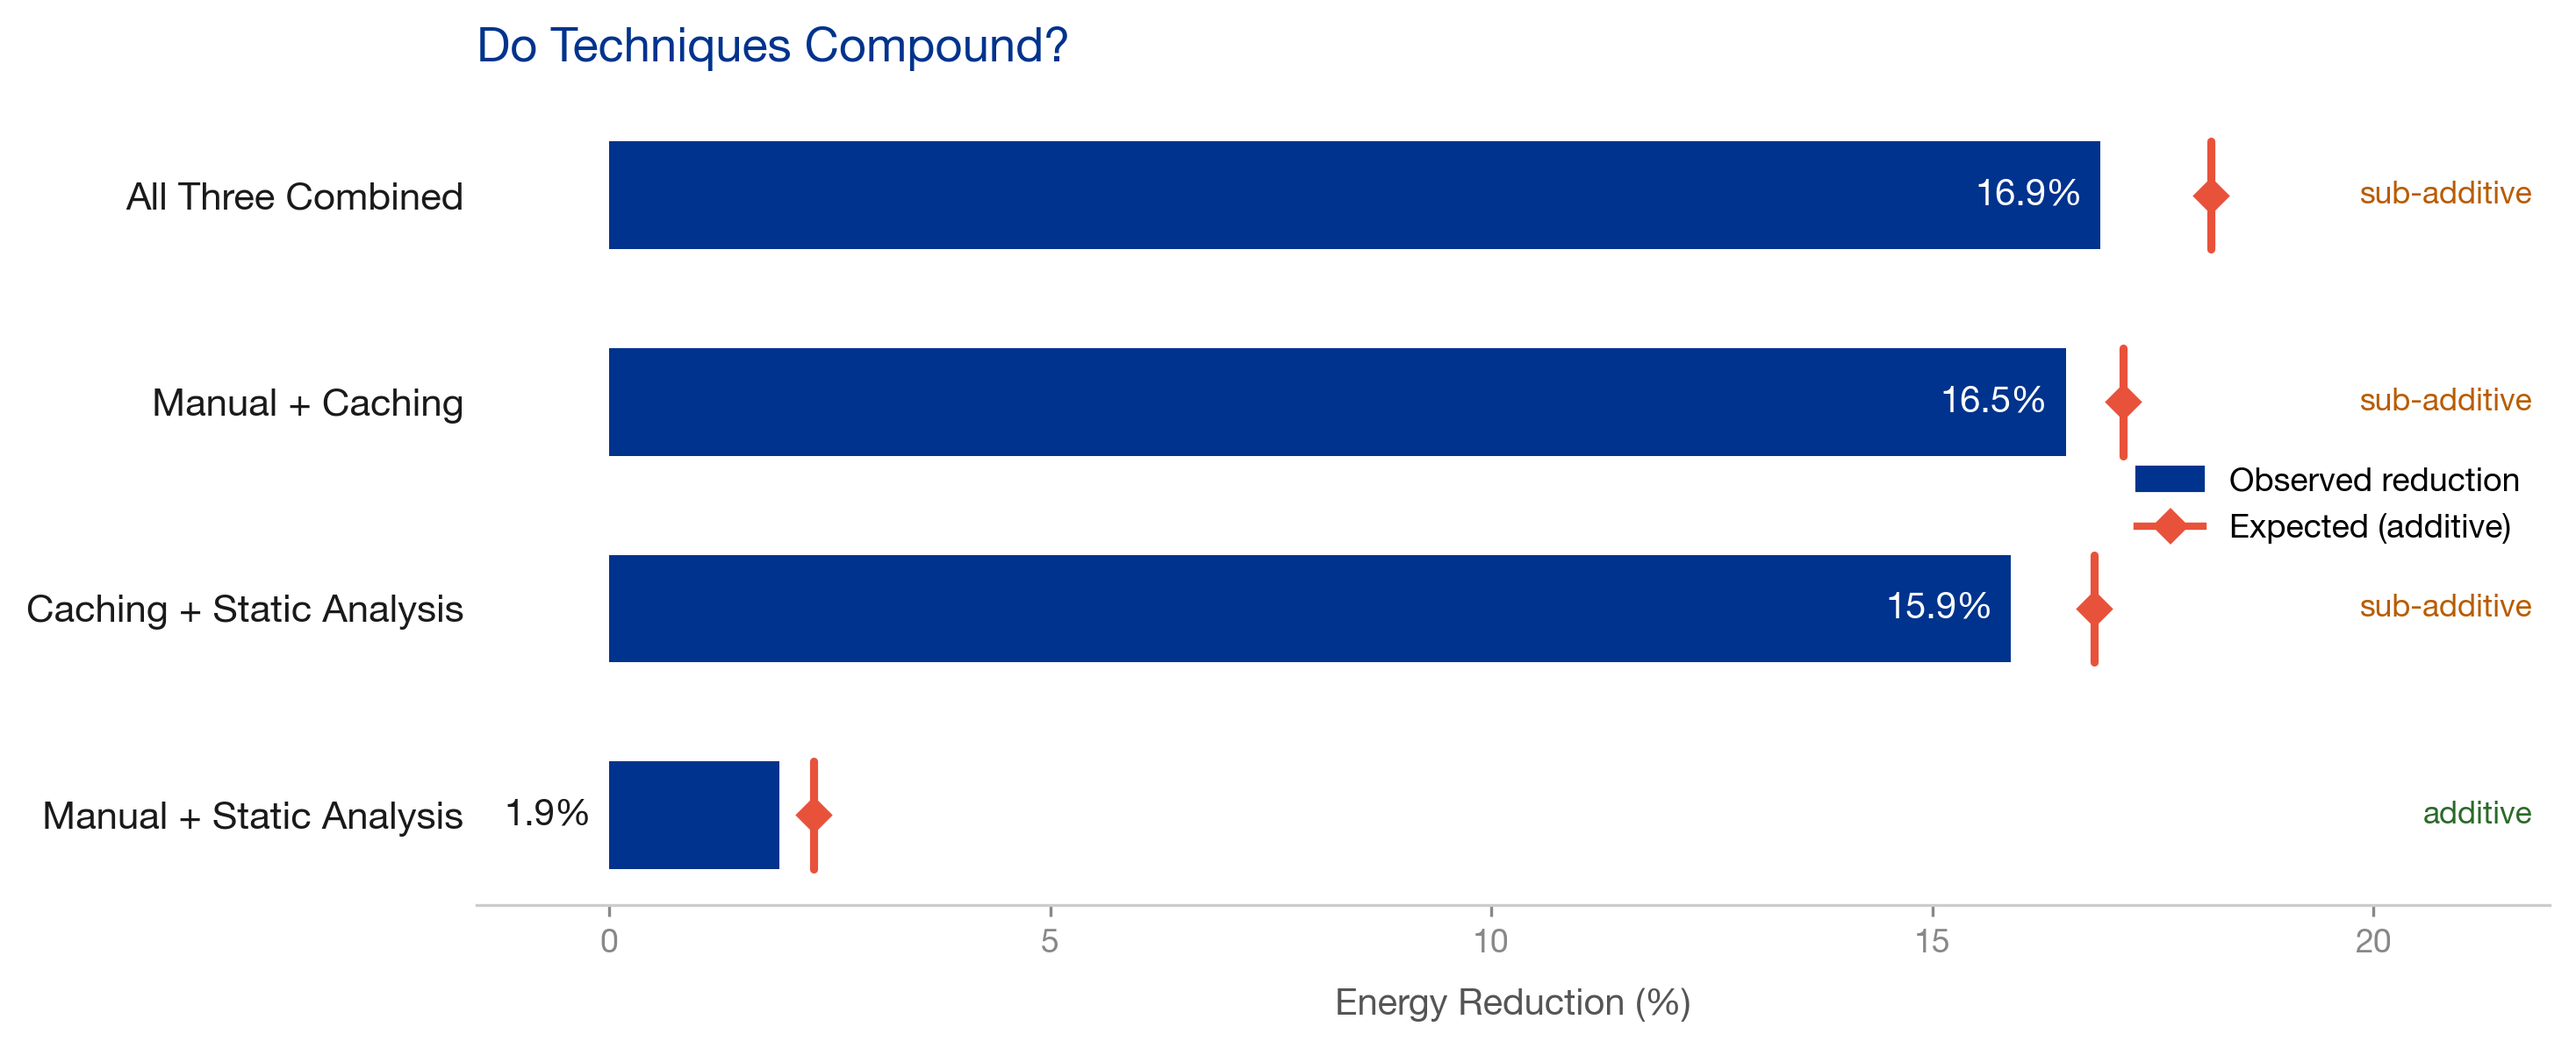
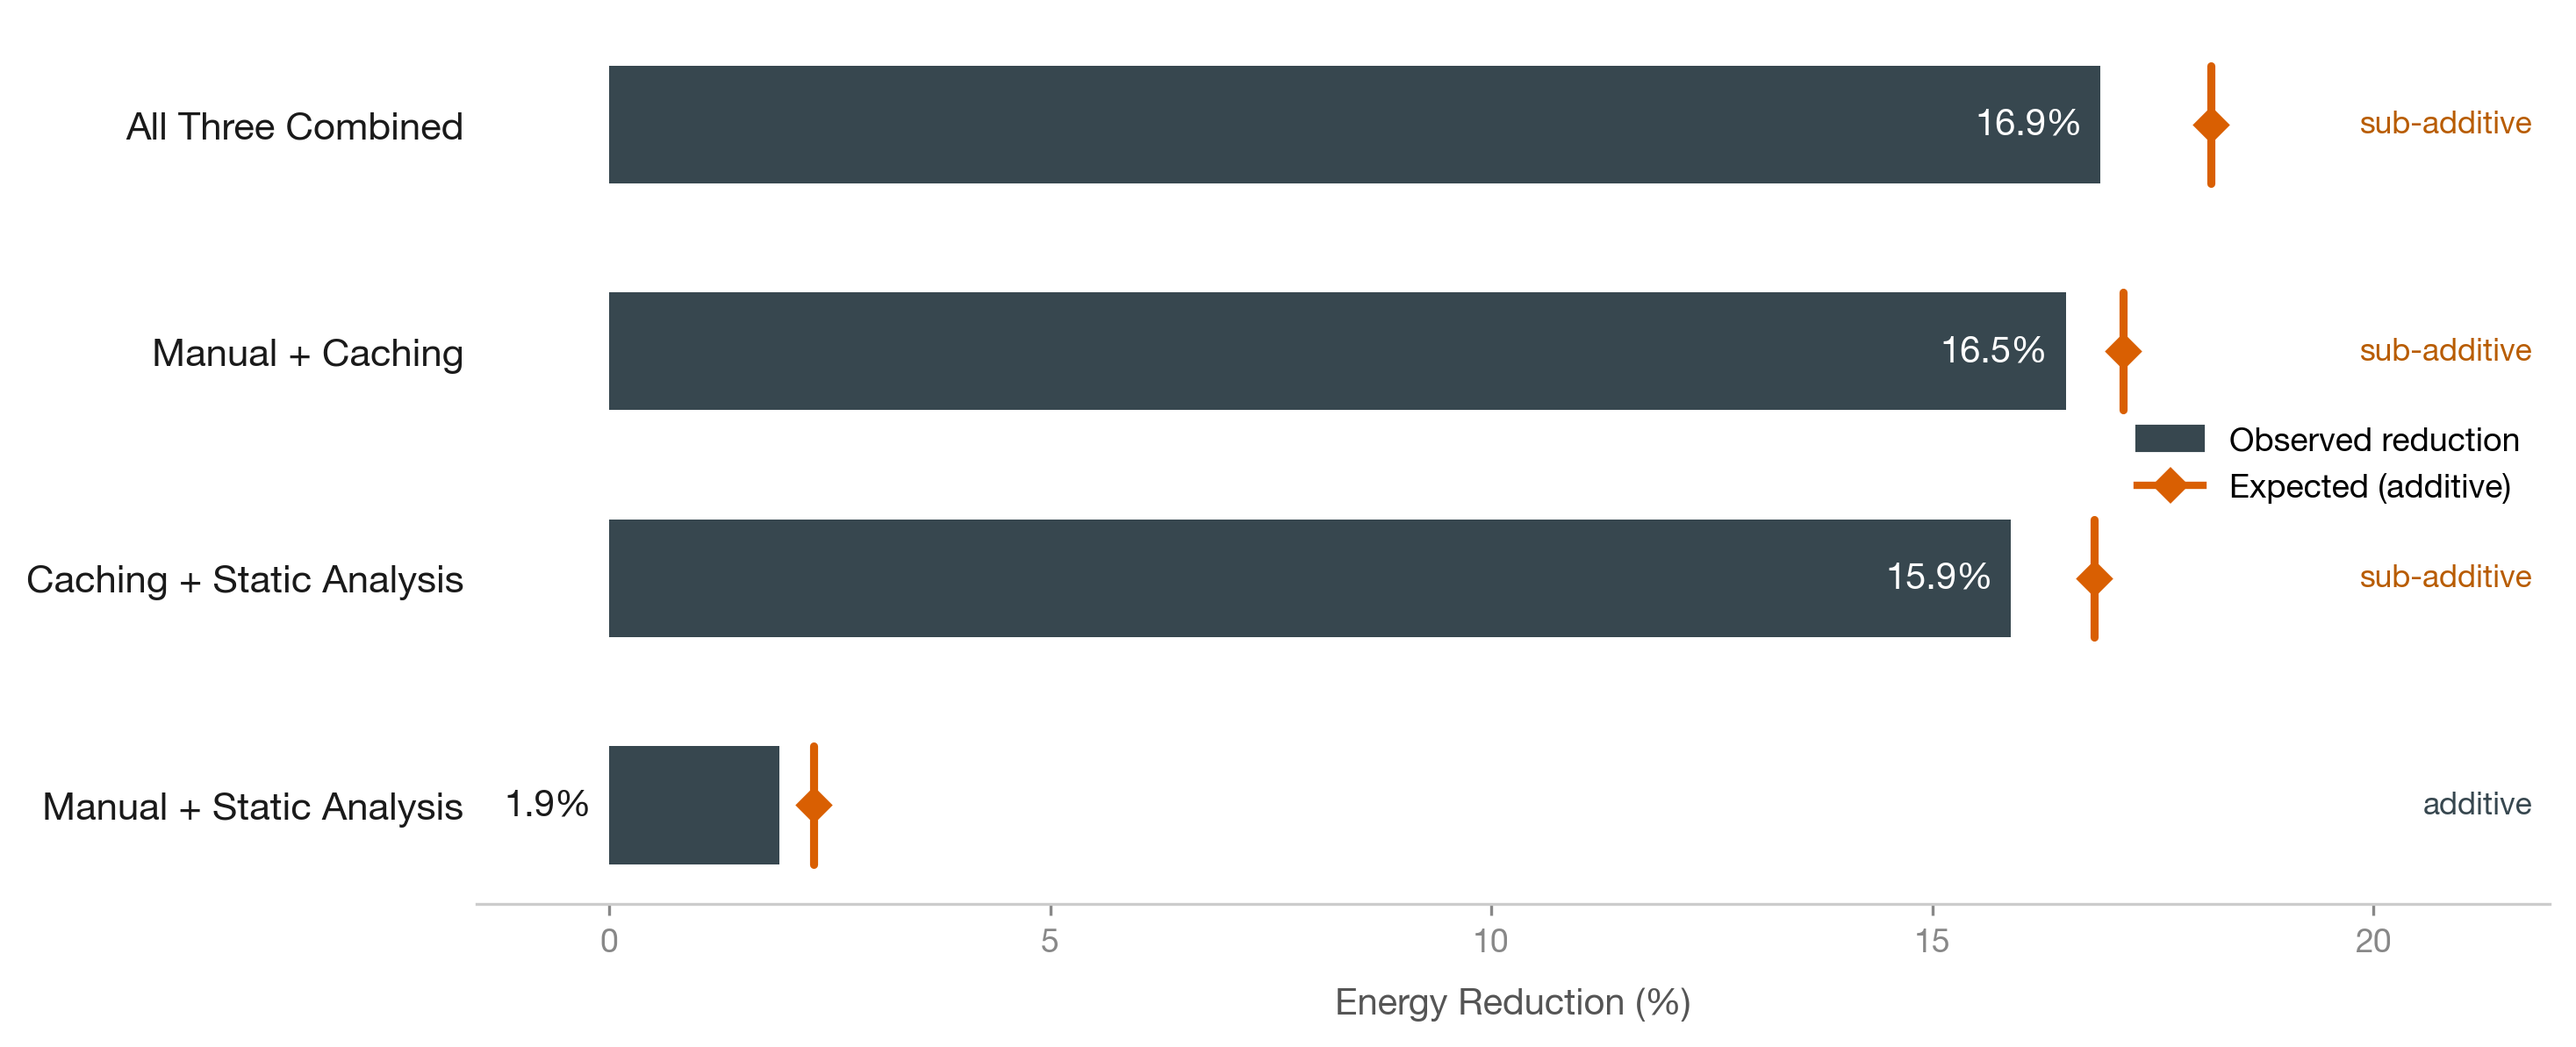
changed the color scheme of the visualizations to a more muted palette

diff --git a/backtrader/experiment/results/visualizations.py b/backtrader/experiment/results/visualizations.py
@@ -10,8 +10,9 @@ matplotlib.rcParams["font.sans-serif"] = ["Helvetica Neue", "Helvetica", "Arial"
 RESULTS_DIR = Path(__file__).resolve().parent
 CSV_PATH = RESULTS_DIR / "comparison.csv"
 
-BRAND = "#00338D"
-GREY  = "#AAAAAA"
+BRAND  = "#37474F"  # dark blue-grey charcoal
+GREY   = "#AAAAAA"
+ORANGE = "#D95F02"  # warm orange accent (expected marker)
 BAR_H = 0.52
 
 df = pd.read_csv(CSV_PATH)
@@ -70,14 +71,10 @@ for i, (branch, row) in enumerate(ind.iterrows()):
     # sig annotation: for large bars anchor right after bar; for small bars
     # anchor at a fixed column so it never collides with the value label
     sig_x  = val + 0.5 if inside else 3.2
-    sig_color = "#888888" if is_ns else "#2A6A2A"
+    sig_color = "#888888" if is_ns else "#37474F"
     ax1.text(sig_x, i, sig, va="center", ha="left", fontsize=8.5,
              color=sig_color, style="italic" if is_ns else "normal")
 
-ax1.set_title(
-    "Energy Reduction by Technique\n(% reduction in total energy vs baseline)",
-    fontsize=13, fontweight="bold", color=BRAND, pad=12, loc="left",
-)
 ax1.set_xlabel("Energy Reduction (%)", fontsize=10, color="#555555", labelpad=8)
 ax1.set_xlim(0, 22)
 ax1.tick_params(axis="y", length=0, labelsize=11, colors="#1A1A1A")
@@ -108,7 +105,7 @@ comb_labels = {
 }
 
 EFFECT_COLORS = {
-    "additive":      "#2A6A2A",
+    "additive":      "#37474F",
     "subadditive":   "#B85C00",
     "superadditive": "#6A2A6A",
 }
@@ -140,8 +137,8 @@ ax2.barh(
 for i, (_, row) in enumerate(comb.iterrows()):
     exp = row["h3_expected_pct"]
     ax2.plot([exp, exp], [i - BAR_H / 2, i + BAR_H / 2],
-             color="#E8523A", linewidth=2.2, zorder=3, solid_capstyle="round")
-    ax2.scatter([exp], [i], marker="D", s=52, color="#E8523A",
+             color=ORANGE, linewidth=2.2, zorder=3, solid_capstyle="round")
+    ax2.scatter([exp], [i], marker="D", s=52, color=ORANGE,
                 zorder=4, linewidths=0)
 
 # Value labels + effect annotations
@@ -166,10 +163,6 @@ for i, (_, row) in enumerate(comb.iterrows()):
 ax2.set_yticks(list(yticks))
 ax2.set_yticklabels(comb["label"].values, fontsize=10.5)
 
-ax2.set_title(
-    "Do Techniques Compound?",
-    fontsize=13, fontweight="bold", color=BRAND, pad=12, loc="left",
-)
 ax2.set_xlabel("Energy Reduction (%)", fontsize=10, color="#555555", labelpad=8)
 ax2.set_xlim(-1.5, 22)
 ax2.tick_params(axis="y", length=0, colors="#1A1A1A")
@@ -182,7 +175,7 @@ ax2.xaxis.grid(False)
 ax2.yaxis.grid(False)
 
 obs_patch = mpatches.Patch(color=BRAND, label="Observed reduction")
-exp_line  = plt.Line2D([0], [0], color="#E8523A", linewidth=2,
+exp_line  = plt.Line2D([0], [0], color=ORANGE, linewidth=2,
                         marker="D", markersize=6, label="Expected (additive)")
 ax2.legend(handles=[obs_patch, exp_line], frameon=False,
            fontsize=9, loc="center right")
